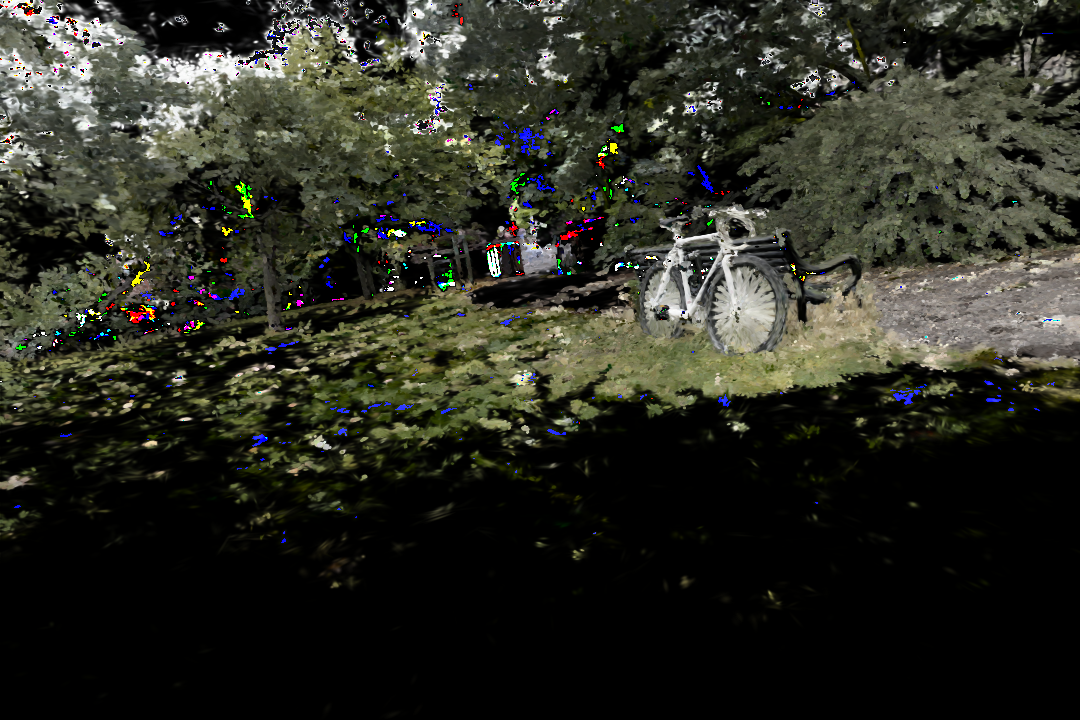
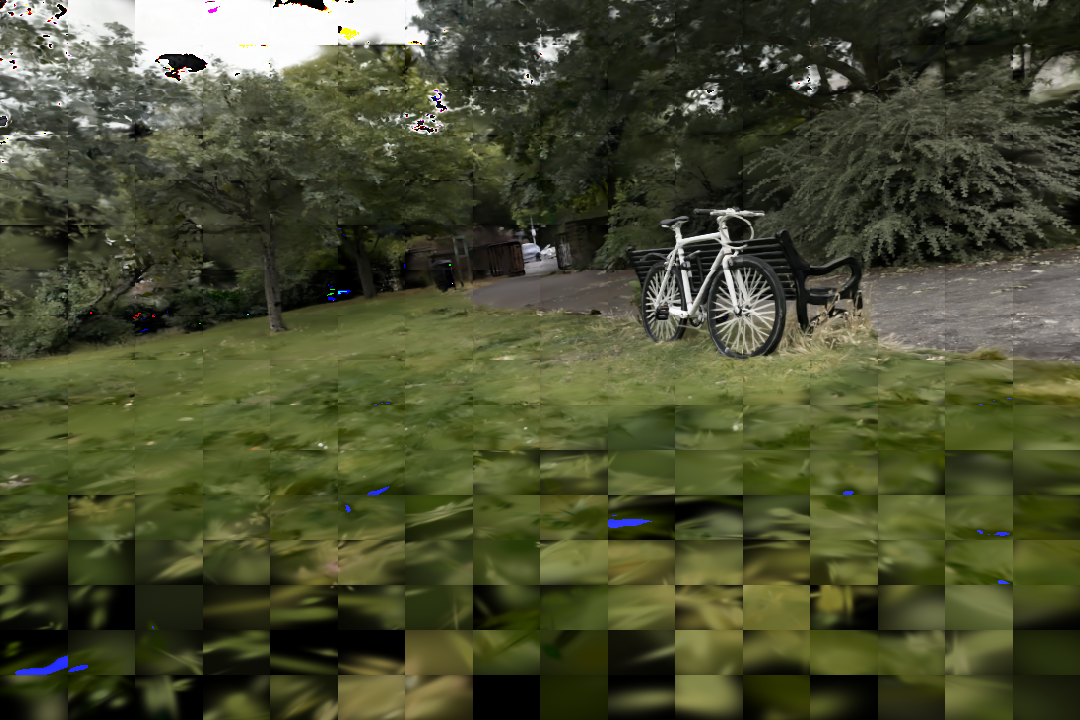
tiled rendering working

diff --git a/src/Splats.cpp b/src/Splats.cpp
@@ -852,8 +852,8 @@ Splats::cpuRender(glm::mat4 viewMatrix, int width, int height, float focal_x, fl
     }
     int numSplatsCulled = 0;
     double timer = glfwGetTime();
-    int tileWidth = width / 16;
-    int tileHeight = height / 16;
+    float tileWidth = width / 16.f;
+    float tileHeight = height / 16.f;
     // for each splat, project the mean
     for (int i = 0; i < numSplats; i++)
     {
@@ -899,6 +899,7 @@ Splats::cpuRender(glm::mat4 viewMatrix, int width, int height, float focal_x, fl
         float inverseDeterminant = 1.f / determinant;
         glm::vec4 conic = glm::vec4(covariance2DCompressed.z, -covariance2DCompressed.y, covariance2DCompressed.x, 1.0) *
                           inverseDeterminant;
+        conic.w = opacities[i];
         //store the conic
         projectedCovariances[i] = conic;
         //projectedCovariances[i] = glm::vec4(viewMatrix3[0][0], viewMatrix3[0][1], viewMatrix3[0][2], viewMatrix3[1][0]);
@@ -947,7 +948,7 @@ Splats::cpuRender(glm::mat4 viewMatrix, int width, int height, float focal_x, fl
         int tileIndex = tileY * 16 + tileX;
         bins[tileIndex]++;
 
-        depthVector[i] = projectedMean[2];
+        depthVector[i] = projectedMean[2] + tileIndex;
 
     }
     //prefix sum the bins
@@ -1010,14 +1011,16 @@ Splats::cpuRender(glm::mat4 viewMatrix, int width, int height, float focal_x, fl
     std::sort(indices.begin(), indices.end(), [&depthVector](int i1, int i2)
     { return depthVector[i1] < depthVector[i2]; });
     std::cout << "Time taken to sort: " << glfwGetTime() - timer << std::endl;
-    /*
+
     //tiled per pixel rasterisation
     timer = glfwGetTime();
     for(int y=0; y<height; y++)
     {
         for(int x=0; x<width; x++)
         {
-            glm::vec2 pixel = glm::vec2(x, y);
+            glm::vec2 pixelPosition = glm::vec2(x, y);
+            //get the pixel
+            glm::vec4 &pixel = image[x][y];
             int tileX = x / tileWidth;
             int tileY = y / tileHeight;
             int tileIndex = tileY * 16 + tileX;
@@ -1037,23 +1040,45 @@ Splats::cpuRender(glm::mat4 viewMatrix, int width, int height, float focal_x, fl
                 if (x >= projectedMean[0] - radius && x <= projectedMean[0] + radius &&
                     y >= projectedMean[1] - radius && y <= projectedMean[1] + radius)
                 {
+
+
                     glm::vec4 conic = projectedCovariances[index];
+                    //get the position of the mean in screen space
+                    glm::vec2 meanPosition = glm::vec2(projectedMean[0], projectedMean[1]);
+                    glm::vec2 distance = glm::vec2(x, y) - meanPosition;
                     //get the value of the conic at the distance
-                    float power = -0.5f * (conic.x * (x - projectedMean.x) * (x - projectedMean.x) +
-                                           conic.z * (y - projectedMean.y) * (y - projectedMean.y)) -
-                                  conic.y * (x - projectedMean.x) * (y - projectedMean.y);
-                    float alpha = std::min(0.99f, exp(power));
+                    float power = -0.5f * (conic.x * distance.x * distance.x + conic.z * distance.y * distance.y) -
+                                  conic.y * distance.x * distance.y;
+                    if(power > 0.f)
+                    {
+                        continue;
+                    }
+                    float alpha = std::min(0.99f, exp(power) * conic.w);
+                    //if the alpha is less than the bit depth of the image, we want to ignore it
+                    //we can reduce the number of computations by increasing this, but some pretty horrific artifacts emerge
+                    //these artifacts are due to the "inside" of objects having random noise inside, so could be overcome
+                    //by better training.
+                    if (alpha < 1.f/255.f)
+                    {
+                        continue;
+                    }
+
+                    //alpha = 1;
                     //add the value to the pixel
-                    image[x][y] = alphaBlend(image[x][y], glm::vec4(colours[index], alpha));
-                    //if the pixel alpha is high enough, break
-                    if(image[x][y].a > 0.99f)
+                    //only add if number of splats per pixel is less than 10
+
+                    pixel = alphaBlend(pixel, glm::vec4(colours[index], alpha));
+                    //if the alpha is high enough, we are done with this pixel
+                    if (pixel.a > 0.99f)
                     {
                         break;
                     }
+
+
                 }
             }
         }
-    }*/
+    }
     //per pixel rasterisation
     /*
     for(int y=0; y < 10; y++)
@@ -1089,7 +1114,7 @@ Splats::cpuRender(glm::mat4 viewMatrix, int width, int height, float focal_x, fl
                 }
             }
         }
-    }*/
+    }
 
     std::cout << "num splats culled: " << numSplatsCulled << std::endl;
     std::cout << "num splats to render: " << numSplats - numSplatsCulled << std::endl;
@@ -1158,7 +1183,7 @@ Splats::cpuRender(glm::mat4 viewMatrix, int width, int height, float focal_x, fl
                 }
             }
         }
-    }
+    }*/
     std::cout << "Time taken to render: " << glfwGetTime() - timer << std::endl;
     //store the image in a png
     saveImage(image, "cpuRender.png");
